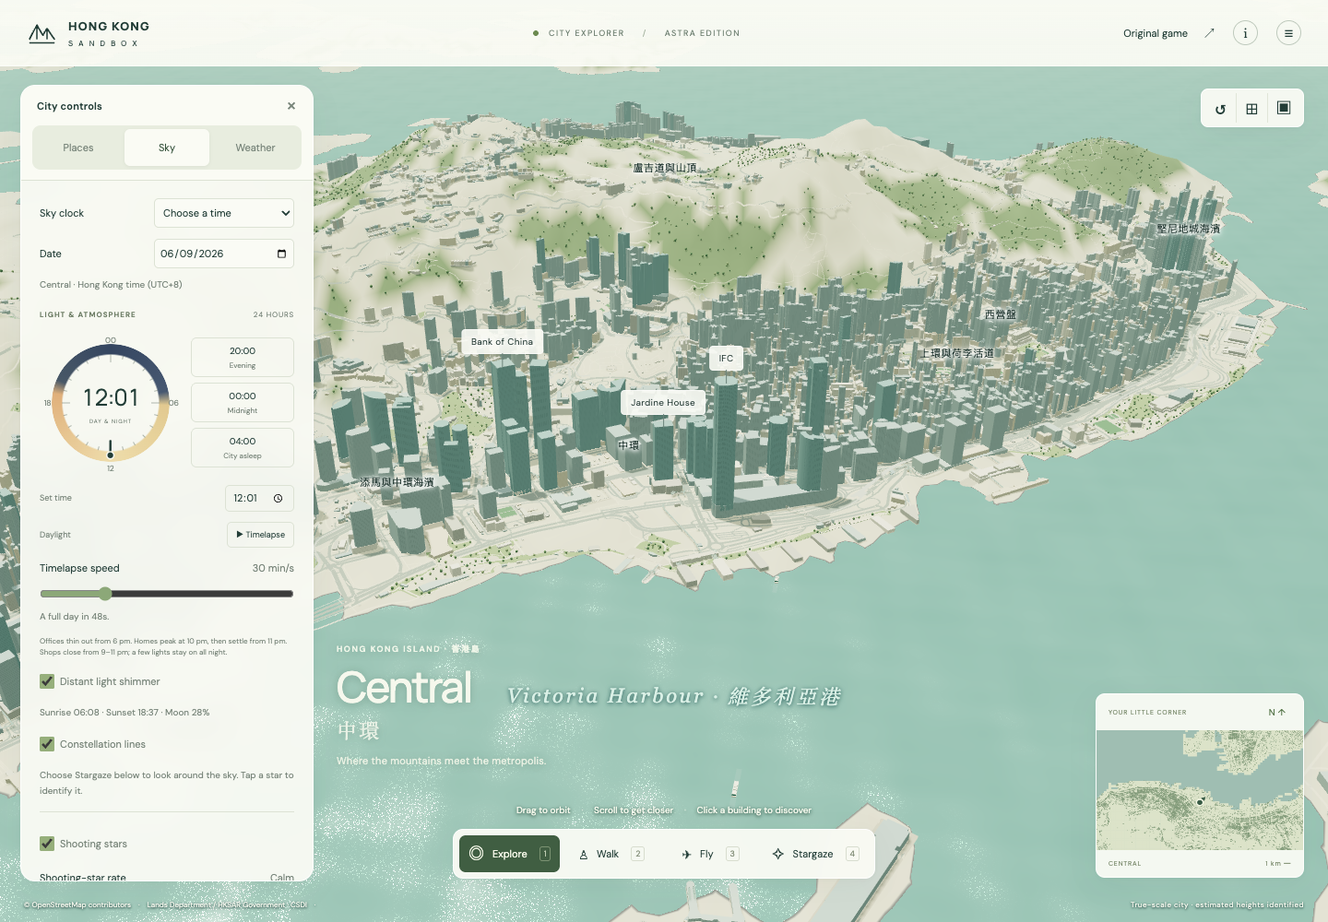
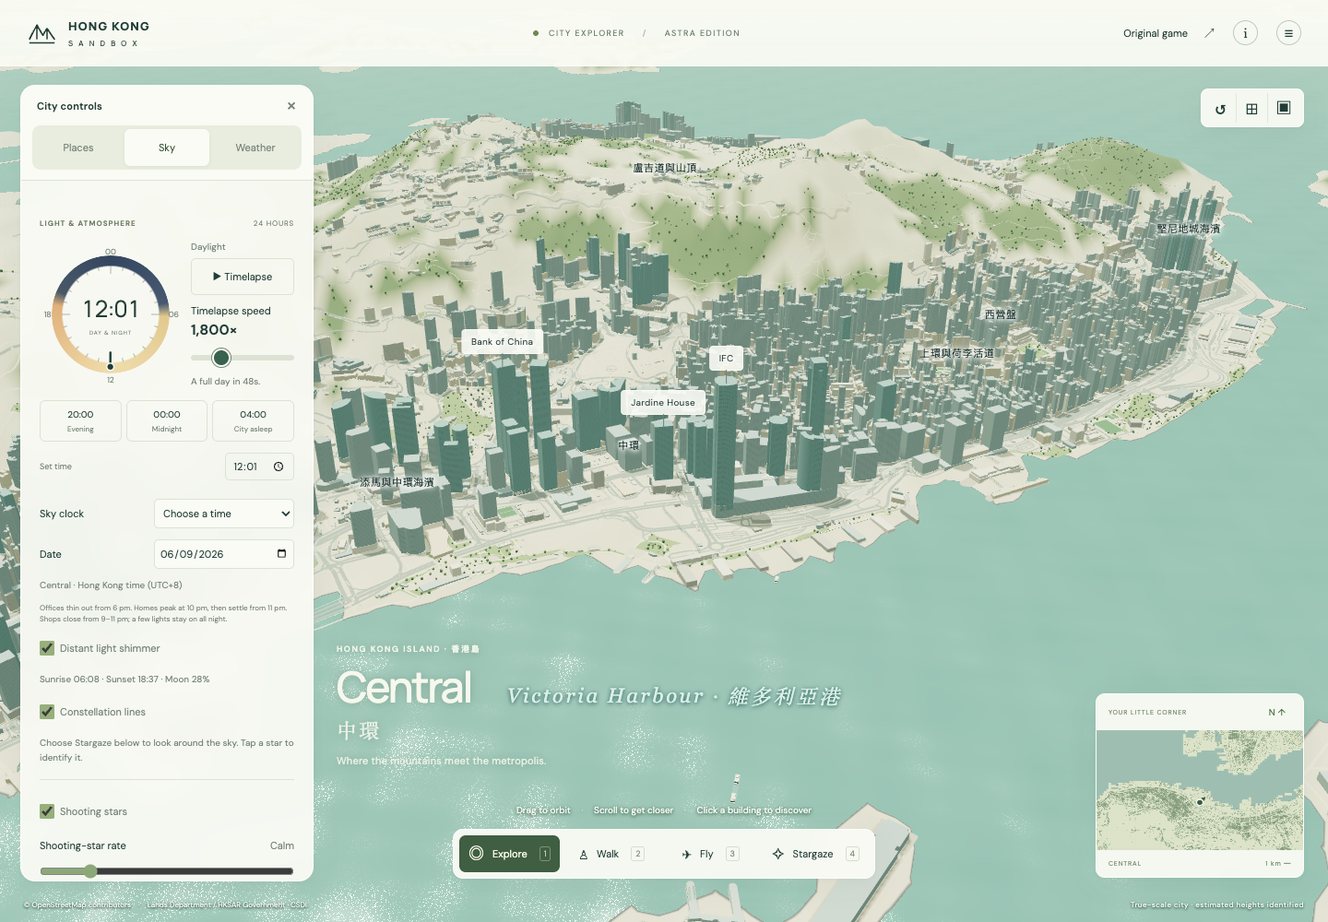
fix: clarify city speed controls and data sources (HKS-189)

diff --git a/3d-viewer/city.html b/3d-viewer/city.html
@@ -39,8 +39,6 @@
  </div>
  </section>
  <section id="panel-sky" role="tabpanel" aria-labelledby="tab-sky" hidden>
- <div class="environment-fields"><label>Sky clock <select id="sky-mode"><option value="manual">Choose a time</option><option value="live">Live Hong Kong time</option></select></label><label>Date <input id="sky-date" type="date" aria-label="Sky date in Hong Kong"></label></div>
- <p id="sky-location" class="environment-note"></p>
  <div class="time-head"><span class="section-label">LIGHT & ATMOSPHERE</span><span class="clock-cycle-label">24 HOURS</span></div>
  <div class="clock-row">
   <div id="time-dial" class="clock-face" role="slider" tabindex="0" aria-label="24-hour city clock" aria-valuemin="0" aria-valuemax="1439" aria-valuenow="900" aria-valuetext="15:00" aria-describedby="clock-help">
@@ -48,12 +46,16 @@
    <svg viewBox="0 0 160 160" aria-hidden="true"><g class="clock-ticks"></g><text x="80" y="12">00</text><text x="151" y="83">06</text><text x="80" y="157">12</text><text x="9" y="83">18</text><line class="clock-hand"/><circle class="clock-thumb" r="4"/></svg>
    <div class="clock-centre"><output id="time-output" for="time">15:00</output><span>DAY & NIGHT</span></div>
   </div>
-  <div class="night-presets" aria-label="Night lighting presets"><button data-hour="20" aria-pressed="false">20:00 <span>Evening</span></button><button data-hour="0" aria-pressed="false">00:00 <span>Midnight</span></button><button data-hour="4" aria-pressed="false">04:00 <span>City asleep</span></button></div>
+  <div class="clock-transport">
+ <div class="night-playback"><span id="night-phase">Daylight</span><button id="time-play" aria-pressed="false" title="Play the city clock at the selected speed">▶ Timelapse</button></div>
+ <label class="weather-control timelapse-speed" for="time-lapse-speed"><span>Timelapse speed</span><output id="time-lapse-speed-value">450×</output><input id="time-lapse-speed" type="range" min="1" max="7200" step="1" value="450" aria-describedby="time-lapse-speed-note"></label><p id="time-lapse-speed-note" class="environment-note" aria-live="polite">A full day in 3m 12s.</p>
+  </div>
  </div>
+  <div class="night-presets" aria-label="Night lighting presets"><button data-hour="20" aria-pressed="false">20:00 <span>Evening</span></button><button data-hour="0" aria-pressed="false">00:00 <span>Midnight</span></button><button data-hour="4" aria-pressed="false">04:00 <span>City asleep</span></button></div>
  <span id="clock-help" class="visually-hidden">Drag around the clock. Midnight at the top, noon at the bottom. Arrow keys change fifteen minutes, Shift and arrows five minutes, Page Up or Down one hour. Home sets midnight.</span>
  <label class="clock-exact">Set time <input id="time" aria-label="Exact city time" type="time" step="60" value="15:00"></label>
- <div class="night-playback"><span id="night-phase">Daylight</span><button id="time-play" aria-pressed="false" title="Watch the day and night pass: one hour every eight seconds">▶ Time lapse</button></div>
- <label class="weather-control timelapse-speed" for="time-lapse-speed"><span>Timelapse speed</span><output id="time-lapse-speed-value">7.5 min/s</output><input id="time-lapse-speed" type="range" min="1" max="120" step="0.5" value="7.5" aria-describedby="time-lapse-speed-note"></label><p id="time-lapse-speed-note" class="environment-note" aria-live="polite">A full day in 3m 12s.</p>
+ <div class="environment-fields"><label>Sky clock <select id="sky-mode"><option value="manual">Choose a time</option><option value="live">Live Hong Kong time</option></select></label><label>Date <input id="sky-date" type="date" aria-label="Sky date in Hong Kong"></label></div>
+ <p id="sky-location" class="environment-note"></p>
  <p class="night-note">Offices thin out from 6 pm. Homes peak at 10 pm, then settle from 11 pm. Shops close from 9–11 pm; a few lights stay on all night.</p>
  <label class="shimmer-control"><input id="light-shimmer" type="checkbox" checked> Distant light shimmer</label>
  <p id="sky-readout" class="environment-note"></p><label class="shimmer-control"><input id="sky-constellations" type="checkbox" checked> Constellation lines</label><p class="environment-note">Choose Stargaze below to look around the sky. Tap a star to identify it.</p>

diff --git a/3d-viewer/city/environment.js b/3d-viewer/city/environment.js
@@ -36,10 +36,10 @@ class CityEnvironment {
   if(key===this.cycleUIKey)return;this.cycleUIKey=key;
   $('time-play').setAttribute('aria-pressed',String(state.enabled));$('time-play').textContent=state.enabled?'Ⅱ Pause':'▶ Timelapse';
   $('time-play').title=state.enabled?'Stop timelapse':'Play the city clock at the selected speed';
-  const speed=state.speedMinutesPerSecond,text=`${speed} min/s`;
-  $('time-lapse-speed').value=String(speed);$('time-lapse-speed').setAttribute('aria-valuetext',`${speed} simulated minutes per real second`);$('time-lapse-speed-value').textContent=text;
+  const speed=state.speedMultiplier,text=`${speed.toLocaleString('en-HK')}×`;
+  $('time-lapse-speed').value=String(speed);$('time-lapse-speed').setAttribute('aria-valuetext',`${speed} times normal speed`);$('time-lapse-speed-value').textContent=text;
   const reason={'paused':'Paused while the city is paused.','stargazing':'Paused in Stargaze; return to resume.','reduced-motion':'Paused for Reduced Motion.','live':'Paused while the sky follows live time.'}[state.suspendedBy];
-  $('time-lapse-speed-note').textContent=reason||`A full day in ${timelapseDuration(speed)}.`;
+  $('time-lapse-speed-note').textContent=reason||`A full day in ${timelapseDuration(state.speedMinutesPerSecond)}.`;
  }
 
  bindUI(){
@@ -47,7 +47,7 @@ class CityEnvironment {
   $('time').addEventListener('input',e=>{const h=hourFromInput(e.target.value);if(h!==null)this.setHour(h);});
   document.querySelectorAll('[data-hour]').forEach(b=>b.addEventListener('click',()=>this.setHour(Number(b.dataset.hour))));
   $('time-play').addEventListener('click',()=>this.play(!this.timeLapse));
-  $('time-lapse-speed').addEventListener('input',e=>{this.timeLapseSpeed=normaliseTimelapseSpeed(e.target.value,this.timeLapseSpeed);this.cycleTick=null;this.syncTimeCycleUI();});
+  $('time-lapse-speed').addEventListener('input',e=>{this.timeLapseSpeed=normaliseTimelapseSpeed(Number(e.target.value)/60,this.timeLapseSpeed);this.cycleTick=null;this.syncTimeCycleUI();});
   this.syncTimeCycleUI();
   $('sky-mode').addEventListener('change',e=>{const mode=e.target.value;this.play(false);this.mode=mode;if(this.mode==='live')this.date=new Date();this.applyClock();});
   $('sky-date').addEventListener('change',e=>{const date=dateFromHKT(e.target.value,this.hour);if(!date)return;this.play(false);this.mode='manual';this.date=date;this.applyClock();});

diff --git a/3d-viewer/city/tests/time-cycle.test.js b/3d-viewer/city/tests/time-cycle.test.js
@@ -6,8 +6,8 @@ import {cityLighting} from '../lighting.js';
 const active={enabled:true,mode:'manual'};
 test('Existing default remains one hour per eight real seconds, with useful bounded speeds',()=>{
  const start=dateFromHKT('2026-09-06',15).valueOf();assert.equal(advanceTimelapse(start,8,active)-start,3600000);
- assert.equal(normaliseTimelapseSpeed(-5),1);assert.equal(normaliseTimelapseSpeed(500),120);assert.equal(normaliseTimelapseSpeed(null),7.5);assert.equal(normaliseTimelapseSpeed(''),7.5);assert.equal(normaliseTimelapseSpeed('30.5'),30.5);
- assert.equal(timelapseDuration(1),'24m');assert.equal(timelapseDuration(7.5),'3m 12s');assert.equal(timelapseDuration(30),'48s');assert.equal(timelapseDuration(120),'12s');
+ assert.equal(normaliseTimelapseSpeed(-5),1/60);assert.equal(normaliseTimelapseSpeed(500),120);assert.equal(normaliseTimelapseSpeed(null),7.5);assert.equal(normaliseTimelapseSpeed(''),7.5);assert.equal(normaliseTimelapseSpeed('30.5'),30.5);
+ assert.equal(timelapseDuration(1/60),'24h');assert.equal(timelapseDuration(1),'24m');assert.equal(timelapseDuration(7.5),'3m 12s');assert.equal(timelapseDuration(30),'48s');assert.equal(timelapseDuration(120),'12s');
 });
 test('Playback advances through HKT midnight, leap day, year end and multiple complete cycles',()=>{
  for(const [day,next]of [['2026-09-06','2026-09-07'],['2026-12-31','2027-01-01'],['2028-02-28','2028-02-29'],['2028-02-29','2028-03-01']]){
@@ -38,4 +38,13 @@ test('Monotonic playback keeps the advertised speed at 10 fps and never catches 
  assert.equal(timeCycleElapsed(100000,{at:1000,running:false},state),0,'first frame after any suspension does not catch up');
  assert.equal(timeCycleElapsed(100000,{at:1000,running:true},timeCycleState({...options,paused:true})),0);
  assert.equal(timeCycleElapsed(0,{at:1000,running:true},state),0);assert.equal(timeCycleElapsed(NaN,tick,state),0);
+});
+
+test('Displayed multipliers represent normal elapsed time, including true 1x playback',()=>{
+ const start=dateFromHKT('2026-09-06',12).valueOf();
+ for(const multiplier of [1,60,450,1800,7200]){
+  const speed=multiplier/60,state=timeCycleState({...active,speed});
+  assert.equal(state.speedMultiplier,multiplier);
+  assert.equal(advanceTimelapse(start,10,{...active,speed})-start,10*1000*multiplier);
+ }
 });

diff --git a/3d-viewer/city/city.css b/3d-viewer/city/city.css
@@ -88,3 +88,8 @@ body:not(.controls-mobile):not(.controls-expanded) #location-title{left:32px}
 
 /* At intermediate desktop widths the centred mode dock reaches the inspector. */
 @media(min-width:761px) and (max-width:1160px){.control-sheet{max-height:calc(100dvh - 210px)}}
+
+/* Keep playback and speed in view with the dial, before secondary sky settings. */
+.clock-transport{flex:1;min-width:0;align-self:center}.clock-transport .night-playback{flex-direction:column;align-items:stretch;gap:6px;margin:0}.clock-transport .night-playback>span{font-size:10px;line-height:1.3}.clock-transport #time-play{min-height:40px;font-size:11px;padding:7px 4px}.clock-transport .timelapse-speed{margin:10px 0 0!important;gap:3px;font-size:11px}.clock-transport .timelapse-speed>span,.clock-transport .timelapse-speed>output{grid-column:1/-1}.clock-transport .timelapse-speed>output{font-size:16px;color:var(--ink);font-weight:600}.clock-transport #time-lapse-speed-note{font-size:10px;line-height:1.4;margin:2px 0 0}.clock-exact+.environment-fields{margin-top:18px}
+#time-lapse-speed{appearance:none;-webkit-appearance:none;display:block;min-width:0;height:34px;min-height:34px;margin:0;padding:0;background:transparent;cursor:pointer}#time-lapse-speed::-webkit-slider-runnable-track{height:6px;border-radius:5px;background:var(--line)}#time-lapse-speed::-webkit-slider-thumb{-webkit-appearance:none;width:20px;height:20px;margin-top:-7px;border-radius:50%;border:2px solid var(--paper);background:var(--accent);box-shadow:0 0 0 1px var(--muted)}#time-lapse-speed::-moz-range-track{height:6px;border-radius:5px;background:var(--line)}#time-lapse-speed::-moz-range-thumb{width:16px;height:16px;border-radius:50%;border:2px solid var(--paper);background:var(--accent);box-shadow:0 0 0 1px var(--muted)}.night #time-lapse-speed::-webkit-slider-thumb{background:#c2d4a9}.night #time-lapse-speed::-moz-range-thumb{background:#c2d4a9}
+@media(max-width:760px){.clock-transport #time-play{min-height:44px}.clock-transport .night-playback>span,.clock-transport .timelapse-speed{font-size:11px}.clock-transport .timelapse-speed>output{font-size:18px}.clock-transport #time-lapse-speed{height:38px;min-height:38px}.clock-transport #time-lapse-speed-note{font-size:11px}}

diff --git a/3d-viewer/city/time-cycle.js b/3d-viewer/city/time-cycle.js
@@ -1,6 +1,6 @@
 // Playback policy for the existing CityEnvironment clock; this is not another clock.
 export const TIMELAPSE_DEFAULT_SPEED=7.5;
-export const TIMELAPSE_MIN_SPEED=1;
+export const TIMELAPSE_MIN_SPEED=1/60;
 export const TIMELAPSE_MAX_SPEED=120;
 export function normaliseTimelapseSpeed(value,fallback=TIMELAPSE_DEFAULT_SPEED){
  if((typeof value!=='number'&&typeof value!=='string')||String(value).trim()===''||!Number.isFinite(Number(value)))return fallback;
@@ -9,7 +9,7 @@ export function normaliseTimelapseSpeed(value,fallback=TIMELAPSE_DEFAULT_SPEED){
 export function timeCycleState({enabled=false,speed=TIMELAPSE_DEFAULT_SPEED,mode='manual',paused=false,reducedMotion=false,stargazing=false}={}){
  const speedMinutesPerSecond=normaliseTimelapseSpeed(speed);
  const suspendedBy=!enabled?null:mode==='live'?'live':paused?'paused':stargazing?'stargazing':reducedMotion?'reduced-motion':null;
- return {enabled:!!enabled,running:!!enabled&&!suspendedBy,speedMinutesPerSecond,dayDurationSeconds:1440/speedMinutesPerSecond,suspendedBy};
+ return {enabled:!!enabled,running:!!enabled&&!suspendedBy,speedMinutesPerSecond,speedMultiplier:Math.round(speedMinutesPerSecond*60),dayDurationSeconds:1440/speedMinutesPerSecond,suspendedBy};
 }
 export function advanceTimelapse(instant,dt,options){
  const state=timeCycleState(options);
@@ -19,7 +19,8 @@ export function advanceTimelapse(instant,dt,options){
  return Number.isFinite(next)&&Math.abs(next)<=8640000000000000?next:instant;
 }
 export function timelapseDuration(speed){
- const total=Math.round(1440/normaliseTimelapseSpeed(speed)),minutes=Math.floor(total/60),seconds=total%60;
+ const total=Math.round(1440/normaliseTimelapseSpeed(speed)),hours=Math.floor(total/3600),minutes=Math.floor(total%3600/60),seconds=total%60;
+ if(hours)return `${hours}h${minutes?' '+minutes+'m':''}`;
  return minutes?`${minutes}m${seconds?' '+seconds+'s':''}`:`${seconds}s`;
 }
 

diff --git a/3d-viewer/city/app.js b/3d-viewer/city/app.js
@@ -144,7 +144,7 @@ function drawMinimap(){
 function updateStreamStatus(){
  if(!stream)return;const s=stream.stats,d=regionalDetail?.stats,b=bridgeLayer?.stats,bar=$('stream-status');bar.hidden=!s.pending&&!s.errors.length&&!loadingTravel&&!d?.pending&&!d?.errors.length&&!b?.pending&&!b?.errors.length;
  $('stream-message').textContent=s.errors.length?'Some city sections could not load':loadingTravel?`Arriving in ${PLACES[place].title}…`:s.pending?`Unfolding the neighbourhood · ${s.loaded}/${s.wanted}`:d?.errors.length||b?.errors.length?'Some local details could not load':b?.pending?'Adding mapped footbridges…':'Adding mapped local detail…';
- $('stream-retry').hidden=!s.errors.length&&!d?.errors.length&&!b?.errors.length;$('data-summary').textContent=`${manifest.counts.buildings.toLocaleString('en-HK')} building forms · ${manifest.supplementalSources?.length?'LandsD + OSM':'OSM'}`;
+ $('stream-retry').hidden=!s.errors.length&&!d?.errors.length&&!b?.errors.length;$('data-summary').textContent=`${manifest.counts.buildings.toLocaleString('en-HK')} building forms · ${manifest.officialCoverage?.renderedComponents?(manifest.officialCoverage.retainedOSMForms?'Lands Department + OSM':'Lands Department'):manifest.supplementalSources?.length?'Lands Department + OSM':'OSM'}`;
 }
 async function getCatalogue(){
  if(!cataloguePromise)cataloguePromise=loadJSON(manifest.catalogue).then(data=>{catalogue=data;makeLabels();return data;}).catch(error=>{cataloguePromise=null;throw error;});return cataloguePromise;

diff --git a/docs/astra-city/time-cycle/README.md b/docs/astra-city/time-cycle/README.md
@@ -1,8 +1,8 @@
 # Adjustable city timelapse · HKS-189
 
-The existing 24-hour dial's playback button now has a speed slider beside it in the Sky controls. This extends `CityEnvironment.timeLapse`; it does not introduce another city clock or timer. Markup and responsive control-sheet styles are coordinated with HKS-190.
+The 24-hour dial, playback button and speed slider form one visible group at the top of Sky, before date and live-clock settings. This extends `CityEnvironment.timeLapse`; it does not introduce another city clock or timer. Markup and responsive control-sheet styles are coordinated with HKS-190.
 
-The slider uses simulated minutes per real second, from 1 to 120 in half-minute steps. Its default is 7.5 min/s, preserving the previous one-hour-in-eight-seconds pace. The adjacent note translates that into a complete day: 24 minutes at the slowest setting, 3m 12s by default, 48s at 30 min/s, and 12s at the fastest setting. The range is keyboard accessible and reports its unit through `aria-valuetext`.
+The slider now displays **1×–7,200× normal speed**, in whole multipliers. At 1×, one simulated second equals one real second. The default is **450×**, preserving the previous one-hour-in-eight-seconds pace. The adjacent note translates the speed into a full day: 24h at 1×, 24m at 60×, 3m 12s at 450×, 48s at 1,800× and 12s at 7,200×. The range is keyboard accessible and reports the normal-speed multiplier through `aria-valuetext`. Internally, the existing clock still uses simulated minutes per second; the UI converts the multiplier by dividing by 60.
 
 The existing calendar date advances through midnight, month/year boundaries and leap days. Each step still runs the existing `applyClock()` path: solar/lunar position, directional light and shadows, sky colour, day/night exposure and the original building occupancy schedules. Business/residential/retail activity retains its existing researched curves and overnight minimum.
 
@@ -23,12 +23,16 @@ node 3d-viewer/city/tests/time-cycle-browser.mjs
 
 Reserve the shared GPU slot before running the browser script. It uses the running city at port 4176 and accepts `CITY_URL`/`CHROME_PATH` overrides.
 
-Five focused tests cover speed units/bounds, midnight/year/leap-day/multiple-day progression, suspension/resume, the existing sun and lighting schedules, and the monotonic 10 fps/no-catch-up policy. The browser script measures actual playback speed, keyboard/touch operability, midnight wrapping, light/shadow-matrix changes, occupancy, 180 rendering frames at 30 min/s, pause/Reduced Motion/Stargaze, manual/Live semantics, source-clock independence and 390/320 px layouts. Its final result and screenshots are saved alongside this note.
+Six focused tests cover speed units/bounds, midnight/year/leap-day/multiple-day progression, suspension/resume, the existing sun and lighting schedules, and the monotonic 10 fps/no-catch-up policy. The browser script measures actual playback speed, keyboard/touch operability, midnight wrapping, light/shadow-matrix changes, occupancy, 180 rendering frames at 30 min/s, pause/Reduced Motion/Stargaze, manual/Live semantics, source-clock independence and 390/320 px layouts. Its final result and screenshots are saved alongside this note.
 
 The displayed speed is a time conversion, not a promise that every simulated minute will receive a rendered frame. At high speeds, intermediate times are skipped visually between frames while elapsed simulation time remains correct. Live celestial time remains available separately; timelapse is an explicit user-controlled simulation.
 
 ## Recorded browser result
 
-The final browser run passed all nine groups with no page or console errors. At 30 simulated min/s, 180 frames measured **16.7 ms median and p95** (212 draw calls, 2,719,063 triangles). Short 0.8-second sampling windows measured 7.31 and 29.23 min/s for requested speeds 7.5 and 30; frame-boundary sampling accounts for the small difference.
+The latest browser run passed all **10 groups** with no page or console errors. At 1,800× (30 simulated min/s), 180 desktop frames measured **16.7 ms median / 16.8 ms p95**. Short sampling windows measured 7.32 and 29.29 simulated min/s for requested 450× and 1,800×; the helper retains internal minute units and frame-boundary sampling affects short measurements.
 
-Both desktop images were inspected at 1440×1000: the clock advances from 08:00 to 12:01 while building faces, directional shadows and sea glint change. The 390×844 mobile image deliberately shows the scrolled speed-control area; the upper part of the dial is above that scroll position. The slider and play button are readable and operable. At 390 px the range is 350 px wide; at 320 px it remains 288 px wide, with no horizontal document/content overflow. The separate HKS-190 control-sheet evidence includes the complete mobile dial view.
+The new first-open screenshots at 390×844 and 1024×768 were inspected: the full dial, toggle, multiplier readout, slider and day-duration note appear together without scrolling. Assertions also pass at 320×667, 760×800 and 1440×1000. The current government/OSM source summary matches the served manifest. Native keyboard Home selects 1× with a 24h day; ArrowRight advances by 1×. Actual touch input and playback continue to work. The five original clock regression cases plus the new multiplier-to-elapsed-time case pass.
+
+## Visibility and units follow-up
+
+The user reported that the speed slider appeared missing. The served page contained it, but earlier tests scrolled it into view and missed the initial visibility problem. The controls have been regrouped at the top of Sky; the speed track and thumb are also more distinct. The browser regression now checks the whole dial/play/speed/duration group at scroll position zero across 320, 390, 760, 1024 and 1440 px. Source summary verification also checks the current **346,115 building forms · Lands Department + OSM** label; 42,892 was the earlier OSM dataset. This label change adds no buildings or geometry.

diff --git a/docs/astra-city/FEATURE-PARITY.md b/docs/astra-city/FEATURE-PARITY.md
@@ -20,7 +20,7 @@ starting point, not permission to drop an unlisted feature.
 | Terrain controls | True-scale city | Mesh density/colour, vertical exaggeration, map rotation/background, auto-spin; keep city layers aligned |
 | Map overlays | Buildings, streets, trees and labels | Contours, trails, hydro, coast, boundaries, cliffs, peak/landmark labels and overlay height |
 | Stargazing | Catalogue stars, 24 constellation figures, picking, dated positions, compass/drag/keyboard sky camera | Phone orientation, GPS follow, wider original selection/presentation behaviours |
-| Sun/moon and time | Live HKT, custom date/time, circular clock, adjustable 1–120 min/s timelapse (HKS-189), seasonal dawn/dusk, sun/moon positions, phase and rise/set | Remaining original studio-light and sky presentation options; preserve ephemeris precision limits |
+| Sun/moon and time | Live HKT, custom date/time, circular clock, adjustable 1×–7,200× timelapse (HKS-189), seasonal dawn/dusk, sun/moon positions, phase and rise/set | Remaining original studio-light and sky presentation options; preserve ephemeris precision limits |
 | Shooting stars | Shared original toggle and Calm/Romantic/Apocalypse rate control; daytime, pause and reduced-motion gates verified (HKS-168) | Saved city settings/URL parity tracked with HKS-187 |
 | Live weather | HKO condition, temperature/humidity and district rain; timestamped station wind; live/manual separation and stale/error state | Marine observations, radar, satellite, AQHI and remaining regional fields |
 | Manual weather | Rain, cloud cover, fog, wind strength/direction, waves, snow, simulated lightning/thunder (HKS-169), manual sea level and HKO astronomical tide predictions with 24-hour graph (HKS-180 tidal slice) | Sky height, typhoon T1–T10, snow accumulation and remaining original controls (HKS-180) |
@@ -69,4 +69,4 @@ Ferries follow the water surface. Walking arrivals and new steps permit at most 
 
 The existing controls now share a mobile-first bottom sheet and a compact desktop inspector. All 118 existing HTML IDs are retained once; controls and their settings stay mounted when collapsed. Tabs, search, mode switching, focus, Escape, handle gestures and keyboard isolation are covered by actual-browser checks. Viewport-inset handling is tested with synthetic browser dimensions; physical iOS/Android keyboard behaviour remains to be checked. See [control presentation and evidence](control-sheet/README.md).
 
-Timelapse extends the existing city clock, with play/pause and a 1–120 simulated-minutes-per-second slider beside the dial. The default remains one hour in eight seconds. Monotonic render timestamps preserve the pace independently of capped movement physics. Sun, shadows and building lighting advance together; manual time selection stops playback, while pause, Stargaze and Reduced Motion suspend it without catching up skipped time. Live weather/tide source timestamps remain independent. Five focused tests, actual keyboard/touch input, year-end rollover and rendered-shadow checks pass. See [timelapse methods and browser evidence](time-cycle/README.md). The complete city suite passes 133 tests.
+Timelapse extends the existing city clock, with play/pause and a 1×–7,200× normal-speed slider beside the dial. The default remains one hour in eight seconds. Monotonic render timestamps preserve the pace independently of capped movement physics. Sun, shadows and building lighting advance together; manual time selection stops playback, while pause, Stargaze and Reduced Motion suspend it without catching up skipped time. Live weather/tide source timestamps remain independent. Six focused tests, actual keyboard/touch input, year-end rollover and rendered-shadow checks pass. See [timelapse methods and browser evidence](time-cycle/README.md). The complete city suite passes 133 tests.

diff --git a/docs/astra-city/control-sheet/README.md b/docs/astra-city/control-sheet/README.md
@@ -43,3 +43,5 @@ The full passing run measures a 175 px collapsed phone sheet. Expanded phone con
 Exported phone, desktop, clock, lower-weather and short-viewport screenshots were inspected visually: typography and control labels remain legible, the full dial fits at the top of the Sky tab, and scrolled controls stop above the persistent dock. The first failed CSS-cascade check is preserved as `browser/first-pass.json` and `first-pass-overlap.png`; its cause was the old mobile `.explorer.open {display:block}` rule overriding flex layout, and the final rule corrects it.
 
 The keyboard-inset assertion uses a synthetic `visualViewport` resize, plus a real short browser viewport. It verifies layout response to the browser's reported dimensions; it is not a claim of physical iOS/Android keyboard testing. No geography, source imagery, performance benchmark or astronomical accuracy claim is introduced by this presentation change.
+
+The subsequent HKS-189 visibility correction groups the dial, toggle and speed slider at the top of Sky, ahead of the calendar controls. [Current first-open screenshots and multiplier checks](../time-cycle/README.md) supersede the earlier scroll-to-reach speed-control screenshots.
